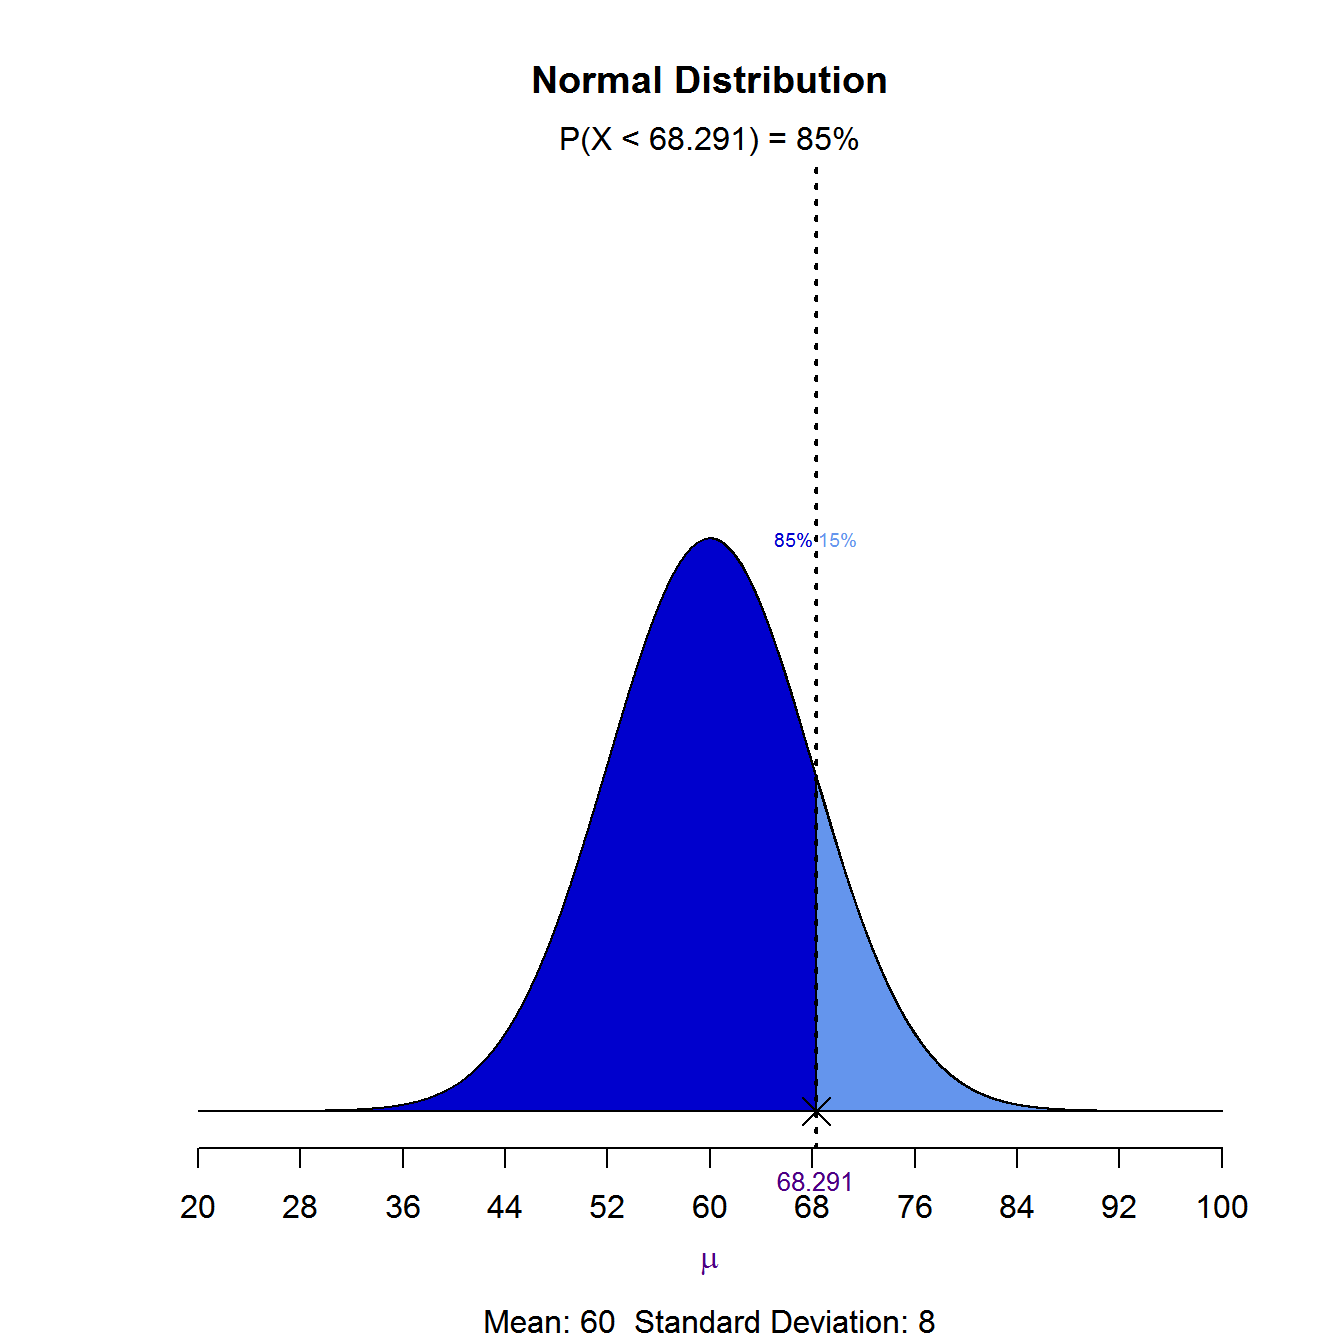
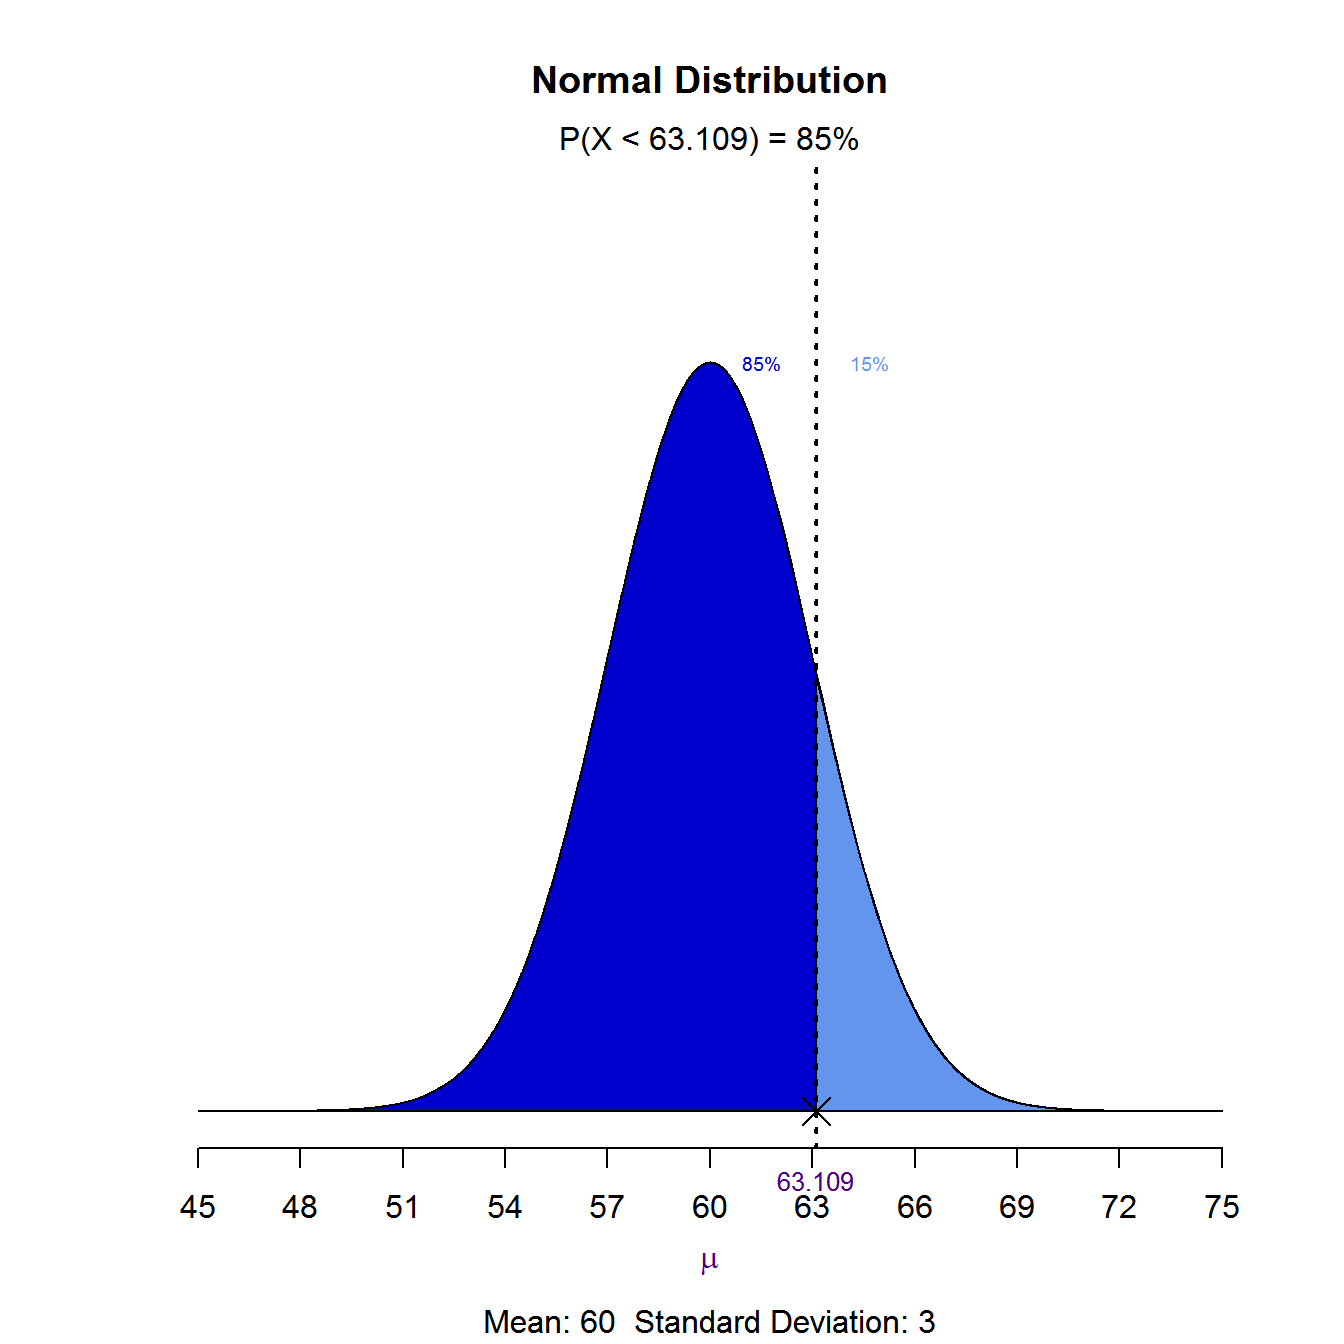
modify length of x axis in normal distribution function.

diff --git a/docs/articles/distributions.html b/docs/articles/distributions.html
@@ -83,14 +83,14 @@
 <li>mean: mean of the normal distribution</li>
 <li>sd: standard deviation of the normal distribution</li>
 <li>type: lower/upper tail</li>
-</ul><p>Suppose X, the grade on a exam, is normally distributed with mean 60 and standard deviation 8. The teacher wants to give 10% of the class an A. What should be the cutoff to determine who gets an A?</p>
-<div class="sourceCode"><pre class="sourceCode r"><code class="sourceCode r"><span class="kw"><a href="../reference/norm_per.html">norm_per</a></span>(<span class="fl">0.10</span>, <span class="dv">60</span>, <span class="dv">8</span>, <span class="st">'upper'</span>)</code></pre></div>
+</ul><p>Suppose X, the grade on a exam, is normally distributed with mean 60 and standard deviation 3. The teacher wants to give 10% of the class an A. What should be the cutoff to determine who gets an A?</p>
+<div class="sourceCode"><pre class="sourceCode r"><code class="sourceCode r"><span class="kw"><a href="../reference/norm_per.html">norm_per</a></span>(<span class="fl">0.10</span>, <span class="dv">60</span>, <span class="dv">3</span>, <span class="st">'upper'</span>)</code></pre></div>
 <p><img src="distributions_files/figure-html/norm_per1-1.png" width="672"></p>
 <p>The teacher wants to give lower 15% of the class a D. What cutoff should the teacher use to determine who gets an D?</p>
-<div class="sourceCode"><pre class="sourceCode r"><code class="sourceCode r"><span class="kw"><a href="../reference/norm_per.html">norm_per</a></span>(<span class="fl">0.85</span>, <span class="dv">60</span>, <span class="dv">8</span>, <span class="st">'lower'</span>)</code></pre></div>
+<div class="sourceCode"><pre class="sourceCode r"><code class="sourceCode r"><span class="kw"><a href="../reference/norm_per.html">norm_per</a></span>(<span class="fl">0.85</span>, <span class="dv">60</span>, <span class="dv">3</span>, <span class="st">'lower'</span>)</code></pre></div>
 <p><img src="distributions_files/figure-html/norm_per2-1.png" width="672"></p>
 <p>The teacher wants to give middle 50% of the class a B. What cutoff should the teacher use to determine who gets an B?</p>
-<div class="sourceCode"><pre class="sourceCode r"><code class="sourceCode r"><span class="kw"><a href="../reference/norm_per.html">norm_per</a></span>(<span class="fl">0.5</span>, <span class="dv">60</span>, <span class="dv">8</span>, <span class="st">'both'</span>)</code></pre></div>
+<div class="sourceCode"><pre class="sourceCode r"><code class="sourceCode r"><span class="kw"><a href="../reference/norm_per.html">norm_per</a></span>(<span class="fl">0.5</span>, <span class="dv">60</span>, <span class="dv">3</span>, <span class="st">'both'</span>)</code></pre></div>
 <p><img src="distributions_files/figure-html/norm_per3-1.png" width="672"></p>
 </div>
 </div>
@@ -105,14 +105,14 @@
 <li>mean: mean of the normal distribution</li>
 <li>sd: standard deviation of the normal distribution</li>
 <li>type: lower/upper/both tail</li>
-</ul><p>Let X be the IQ of a randomly selected student of a school. Assume X ~ N(90, 12). What is the probability that a randomly selected student has an IQ below 80?</p>
-<div class="sourceCode"><pre class="sourceCode r"><code class="sourceCode r"><span class="kw"><a href="../reference/norm_prob.html">norm_prob</a></span>(<span class="dv">80</span>, <span class="dt">mean =</span> <span class="dv">90</span>, <span class="dt">sd =</span> <span class="dv">12</span>)</code></pre></div>
+</ul><p>Let X be the IQ of a randomly selected student of a school. Assume X ~ N(90, 4). What is the probability that a randomly selected student has an IQ below 80?</p>
+<div class="sourceCode"><pre class="sourceCode r"><code class="sourceCode r"><span class="kw"><a href="../reference/norm_prob.html">norm_prob</a></span>(<span class="dv">80</span>, <span class="dt">mean =</span> <span class="dv">90</span>, <span class="dt">sd =</span> <span class="dv">4</span>)</code></pre></div>
 <p><img src="distributions_files/figure-html/norm_prob1-1.png" width="672"></p>
 <p>What is the probability that a randomly selected student has an IQ above 100?</p>
-<div class="sourceCode"><pre class="sourceCode r"><code class="sourceCode r"><span class="kw"><a href="../reference/norm_prob.html">norm_prob</a></span>(<span class="dv">100</span>, <span class="dt">mean =</span> <span class="dv">90</span>, <span class="dt">sd =</span> <span class="dv">12</span>, <span class="dt">type =</span> <span class="st">'upper'</span>)</code></pre></div>
+<div class="sourceCode"><pre class="sourceCode r"><code class="sourceCode r"><span class="kw"><a href="../reference/norm_prob.html">norm_prob</a></span>(<span class="dv">100</span>, <span class="dt">mean =</span> <span class="dv">90</span>, <span class="dt">sd =</span> <span class="dv">4</span>, <span class="dt">type =</span> <span class="st">'upper'</span>)</code></pre></div>
 <p><img src="distributions_files/figure-html/norm_prob2-1.png" width="672"></p>
-<p>What is the probability that a randomly selected student has an IQ between 96 and 106?</p>
-<div class="sourceCode"><pre class="sourceCode r"><code class="sourceCode r"><span class="kw"><a href="../reference/norm_prob.html">norm_prob</a></span>(<span class="kw">c</span>(<span class="dv">96</span>, <span class="dv">106</span>), <span class="dt">mean =</span> <span class="dv">90</span>, <span class="dt">sd =</span> <span class="dv">12</span>, <span class="dt">type =</span> <span class="st">'both'</span>)</code></pre></div>
+<p>What is the probability that a randomly selected student has an IQ between 85 and 100?</p>
+<div class="sourceCode"><pre class="sourceCode r"><code class="sourceCode r"><span class="kw"><a href="../reference/norm_prob.html">norm_prob</a></span>(<span class="kw">c</span>(<span class="dv">85</span>, <span class="dv">100</span>), <span class="dt">mean =</span> <span class="dv">90</span>, <span class="dt">sd =</span> <span class="dv">4</span>, <span class="dt">type =</span> <span class="st">'both'</span>)</code></pre></div>
 <p><img src="distributions_files/figure-html/norm_prob3-1.png" width="672"></p>
 </div>
 </div>
